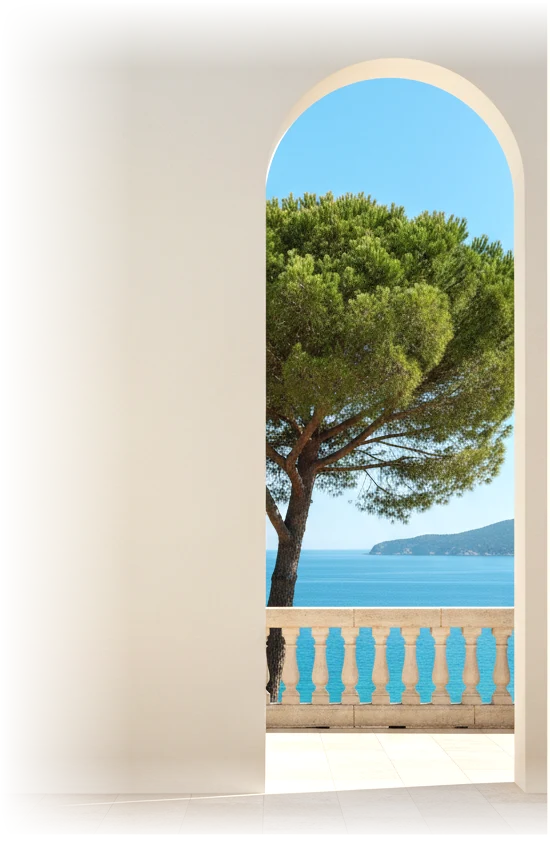
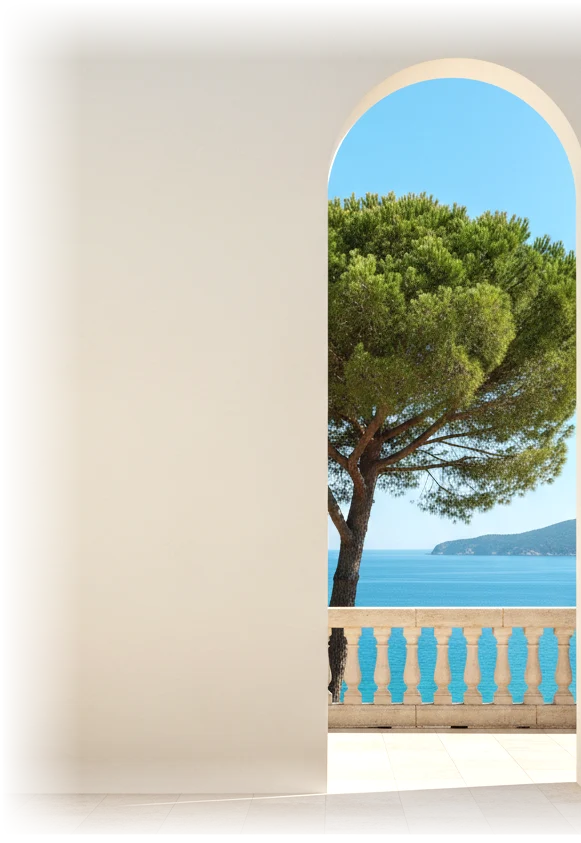
feat(landing): part-2 FULL REBUILD to Christian's strict acceptance criteria — (1) arch = premium architectural doorway: 620×900 spanning KPI band→below cards, wide opening w/ pine/sea/balustrade/sunlit floor, crisp (14% edge melt only), page flows through it; (2) cinematic spacing (sec 104/88, jtl 

diff --git a/marketing/v2/index.html b/marketing/v2/index.html
@@ -158,41 +158,41 @@
   .center .sub{margin-left:auto;margin-right:auto}
 
   .facts{display:flex;justify-content:center;flex-wrap:wrap;background:var(--chalk);max-width:1380px;margin:10px auto 0;padding:0 24px;position:relative;z-index:2}
-  .fact{display:flex;align-items:center;gap:15px;padding:26px 26px;text-align:left;border-right:1px solid var(--line);flex:1;min-width:0;position:relative;z-index:1}
-  .fact:last-child{border-right:none}
-  .fic{width:48px;height:48px;border-radius:50%;border:1px solid rgba(30,38,32,.16);display:grid;place-items:center;flex:none}
+  .fact{display:flex;align-items:center;gap:16px;padding:30px 30px;text-align:left;flex:1;min-width:0;position:relative;z-index:1}
+  .fact:not(:last-child)::after{content:"";position:absolute;right:0;top:50%;transform:translateY(-50%);height:46px;width:1px;background:rgba(30,38,32,.09)}
+  .fic{width:50px;height:50px;border-radius:50%;border:1px solid rgba(30,38,32,.13);display:grid;place-items:center;flex:none}
   .fic svg{width:22px;height:22px;fill:none;stroke:var(--ink);stroke-width:1.5;stroke-linecap:round;stroke-linejoin:round}
-  .fact .fv{font-family:var(--serif);font-size:1.7rem;line-height:1.1;color:var(--ink)}
+  .fact .fv{font-family:var(--serif);font-size:1.72rem;line-height:1.1;color:var(--ink)}
   .fact .fl{font-size:.78rem;color:var(--stone);margin-top:3px}
   /* journey timeline */
-  .jtl-sec{position:relative;padding:72px 0 56px}
-  .jtl-sec .scene-h h2{font-size:clamp(2.1rem,3.6vw,3.05rem)}
-  .jtl-sec .scene-h .sub{font-size:1.05rem;margin-top:16px}
+  .jtl-sec{position:relative;padding:104px 0 88px}
+  .jtl-sec .scene-h h2{font-size:clamp(2.4rem,4vw,3.4rem);line-height:1.12}
+  .jtl-sec .scene-h .sub{font-size:1.08rem;margin-top:18px}
   .jtl-sec .scene-h{text-align:center;position:relative;z-index:1}
   .jtl-sec .scene-h .sub{margin-left:auto;margin-right:auto}
-  .p2-frag{position:absolute;top:-40px;right:0;width:480px;height:736px;object-fit:cover;object-position:center;z-index:0;pointer-events:none}
-  .jtl{position:relative;margin-top:64px;display:grid;grid-template-columns:repeat(7,minmax(0,1fr));gap:14px;z-index:1;padding-right:80px}
-  .jtl-line{position:absolute;left:calc(50% - 50vw);top:0;width:100vw;height:70px;z-index:0;pointer-events:none}
+  .p2-frag{position:absolute;top:-150px;right:0;width:620px;height:900px;object-fit:cover;object-position:center;z-index:0;pointer-events:none}
+  .jtl{position:relative;margin-top:84px;display:grid;grid-template-columns:repeat(7,minmax(0,1fr));gap:16px;z-index:1;padding-right:84px}
+  .jtl-line{position:absolute;left:calc(50% - 50vw);top:0;width:100vw;height:74px;z-index:0;pointer-events:none}
   .jtl-line path{fill:none;stroke:rgba(38,48,42,.55);stroke-width:1.4}
   .jtl-line circle{fill:var(--olive)}
   .jt-step{text-align:center;position:relative;z-index:1}
-  .jt-ic{width:70px;height:70px;border-radius:50%;background:var(--card);border:1px solid rgba(30,38,32,.2);display:grid;place-items:center;margin:0 auto;box-shadow:0 10px 24px -14px rgba(38,48,42,.35)}
-  .jt-ic svg{width:27px;height:27px;fill:none;stroke:var(--ink);stroke-width:1.5;stroke-linecap:round;stroke-linejoin:round}
+  .jt-ic{width:76px;height:76px;border-radius:50%;background:var(--card);border:1px solid rgba(30,38,32,.18);display:grid;place-items:center;margin:0 auto;box-shadow:0 12px 28px -16px rgba(38,48,42,.35)}
+  .jt-ic svg{width:29px;height:29px;fill:none;stroke:var(--ink);stroke-width:1.5;stroke-linecap:round;stroke-linejoin:round}
   .jt-n{display:block;font-family:var(--serif);font-weight:400;font-size:1.15rem;color:var(--ink);margin-top:16px}
-  .jt-l{display:block;font-family:var(--mono);font-size:.62rem;letter-spacing:.16em;color:var(--ink);text-transform:uppercase;margin-top:6px}
+  .jt-l{display:block;font-family:var(--mono);font-size:.63rem;letter-spacing:.18em;color:var(--ink);text-transform:uppercase;margin-top:7px}
   @media(min-width:1280px){.jt-l{white-space:nowrap;overflow:visible}}
   .jt-c{font-size:.74rem;line-height:1.55;color:var(--stone);margin:8px auto 0;max-width:24ch}
-  .jt-art{margin-top:16px;display:flex;justify-content:center}
-  .jt-card{background:#fff;border:1px solid rgba(30,38,32,.08);border-radius:12px;box-shadow:0 12px 30px -16px rgba(38,48,42,.32);padding:11px 13px;font-size:.68rem;line-height:1.5;color:#3c463c;text-align:left;display:flex;align-items:center;gap:9px;max-width:190px}
-  .jt-card b{display:block;font-size:.72rem;color:var(--ink);font-weight:600;white-space:nowrap}
+  .jt-art{margin-top:22px;display:flex;justify-content:center}
+  .jt-card{background:#fff;border:1px solid rgba(30,38,32,.08);border-radius:13px;box-shadow:0 14px 34px -18px rgba(38,48,42,.34);padding:13px 15px;font-size:.72rem;line-height:1.55;color:#3c463c;text-align:left;display:flex;align-items:center;gap:10px;max-width:210px}
+  .jt-card b{display:block;font-size:.76rem;color:var(--ink);font-weight:600;white-space:nowrap}
   .jt-card i{font-style:normal;color:#8a917f;white-space:nowrap}
   .jt-wab{width:26px;height:26px;flex:none}
   .jt-chips{display:flex;flex-direction:column;gap:7px;align-items:center}
-  .jt-chip{background:var(--limestone);border-radius:9px;padding:8px 13px;font-size:.68rem;color:#3c463c;white-space:nowrap}
+  .jt-chip{background:var(--limestone);border-radius:10px;padding:10px 15px;font-size:.72rem;color:#3c463c;white-space:nowrap}
   .jt-chip b{font-weight:600;color:var(--ink)}
-  .jt-prop{display:block;padding:0;overflow:hidden;width:100%;max-width:180px}
+  .jt-prop{display:block;padding:0;overflow:hidden;width:100%;max-width:200px}
   .jt-prop .jp-im{position:relative}
-  .jt-prop img{display:block;width:100%;height:106px;object-fit:cover}
+  .jt-prop img{display:block;width:100%;height:122px;object-fit:cover}
   .jt-prop .jp-h{position:absolute;top:5px;right:5px;width:20px;height:20px;border-radius:50%;background:rgba(255,255,255,.92);display:grid;place-items:center}
   .jt-prop .jp-h svg{width:11px;height:11px;fill:none;stroke:#C86B4A;stroke-width:1.7}
   .jt-prop .jp-t{padding:7px 9px}
@@ -200,8 +200,8 @@
   .jt-prop .jp-t i{display:flex;align-items:center;gap:5px}
   .jp-dot{width:6px;height:6px;border-radius:50%;background:#4A7C59;display:inline-block;flex:none}
   .jt-cal svg{width:17px;height:17px;fill:none;stroke:var(--olive);stroke-width:1.6;flex:none}
-  .jt-photo{position:relative;border-radius:12px;overflow:hidden;box-shadow:0 12px 30px -16px rgba(38,48,42,.32);width:100%;max-width:176px}
-  .jt-photo img{display:block;width:100%;height:108px;object-fit:cover}
+  .jt-photo{position:relative;border-radius:13px;overflow:hidden;box-shadow:0 14px 34px -18px rgba(38,48,42,.34);width:100%;max-width:196px}
+  .jt-photo img{display:block;width:100%;height:120px;object-fit:cover}
   .jt-photo span{position:absolute;bottom:5px;right:6px;background:rgba(255,255,255,.92);border-radius:6px;font-family:var(--mono);font-size:.56rem;padding:2px 6px;color:var(--ink)}
   .jt-spark{align-items:flex-end;gap:10px}
   .jt-spark svg.sline{width:56px;height:26px;fill:none;stroke:var(--olive);stroke-width:1.6;stroke-linecap:round;flex:none;margin-bottom:3px}
@@ -210,19 +210,20 @@
 
   /* language demo */
   .langdemo{display:grid;grid-template-columns:.88fr 1.12fr;gap:52px;align-items:center;position:relative}
-  .p2-olive{position:absolute;left:calc(50% - 50vw - 16px);bottom:-170px;width:380px;height:auto;mix-blend-mode:multiply;opacity:.95;pointer-events:none;z-index:0}
-  .ld-h{font-size:clamp(2.2rem,3.8vw,3.1rem);line-height:1.14;margin-top:14px}
+  .p2-olive{position:absolute;left:calc(50% - 50vw - 20px);bottom:-190px;width:440px;height:auto;mix-blend-mode:multiply;opacity:.92;pointer-events:none;z-index:0}
+  .ld-h{font-size:clamp(2.5rem,4.2vw,3.5rem);line-height:1.15;margin-top:16px}
   .langbtns{display:flex;gap:12px;flex-wrap:wrap;margin-top:24px}
-  .lb{font-family:var(--mono);font-size:.7rem;letter-spacing:.1em;border:1px solid var(--line);border-radius:999px;padding:12px 21px;cursor:pointer;background:var(--card);color:#3c463c;transition:all .2s}
+  .lb{font-family:var(--mono);font-size:.72rem;letter-spacing:.1em;border:1px solid rgba(30,38,32,.14);border-radius:999px;padding:14px 24px;cursor:pointer;background:#fff;color:#3c463c;transition:all .2s}
   .lb.sel{background:var(--olive);color:#F0EDE4;border-color:var(--olive)}
-  .ldc{background:#fff;border:1px solid rgba(30,38,32,.07);border-radius:20px;box-shadow:0 30px 70px -34px rgba(38,48,42,.32);padding:34px 38px;position:relative;z-index:1}
+  .ldc{background:#fff;border:1px solid rgba(30,38,32,.06);border-radius:22px;box-shadow:0 36px 84px -38px rgba(38,48,42,.3);padding:42px 46px;position:relative;z-index:1}
   .ldc-k{font-family:var(--mono);font-size:.64rem;letter-spacing:.16em;color:var(--stone);text-transform:uppercase;display:flex;justify-content:space-between;margin-bottom:16px}
-  .ldc p#draftText{margin:0;font-size:1.08rem;line-height:1.8;color:#333d33;min-height:104px;transition:opacity .3s}
+  .ldc p#draftText{margin:0;font-size:1.14rem;line-height:1.85;color:#333d33;min-height:112px;transition:opacity .3s}
   .ldc hr{border:none;border-top:1px solid rgba(30,38,32,.1);margin:22px 0 16px}
   .ldc-k2{font-family:var(--mono);font-size:.62rem;letter-spacing:.14em;color:var(--stone);text-transform:uppercase;margin-bottom:10px}
-  .ldc-mir{display:flex;align-items:center;justify-content:space-between;gap:14px;background:var(--limestone);border-radius:14px;padding:17px 20px;font-size:.92rem;color:#3c463c}
+  .ldc-mir{display:flex;align-items:center;justify-content:space-between;gap:16px;background:var(--limestone);border-radius:16px;padding:20px 24px;font-size:.96rem;color:#3c463c}
   .mir-t{line-height:1.65}
-  .ldc-av{width:40px;height:40px;border-radius:50%;background:var(--olive);color:#F2EFE4;display:grid;place-items:center;font-weight:600;font-size:.8rem;flex:none;letter-spacing:.02em}
+  .ldc-av{width:48px;height:48px;border-radius:50%;overflow:hidden;flex:none;border:2px solid #fff;box-shadow:0 4px 12px -4px rgba(38,48,42,.3)}
+  .ldc-av img{display:block;width:100%;height:100%;object-fit:cover}
   .draftcard{background:var(--card);border-radius:14px;box-shadow:var(--shadow);padding:20px 22px}
   .draftcard .dk{font-family:var(--mono);font-size:.6rem;letter-spacing:.12em;color:var(--stone);text-transform:uppercase;display:flex;justify-content:space-between;margin-bottom:9px}
   .draftcard p{margin:0;font-size:.92rem;line-height:1.65;color:#333d33;min-height:100px;transition:opacity .3s}
@@ -778,14 +779,14 @@
 
 <!-- system map: journey timeline -->
 <section class="jtl-sec">
-  <img class="p2-frag" src="assets/v3/stone-arch.webp" alt="" width="612" height="843" aria-hidden="true" />
+  <img class="p2-frag" src="assets/v3/stone-arch.webp" alt="" width="581" height="843" aria-hidden="true" />
   <div class="wrap">
     <div class="scene-h reveal">
       <h2 data-i18n="map_h">One system behind the whole <span class="it">journey</span>.</h2>
       <p class="sub" data-i18n="map_sub">Every stage of the client journey lives inside one connected system.</p>
     </div>
     <div class="jtl" id="sysmap">
-      <svg class="jtl-line" viewBox="0 0 1440 70" preserveAspectRatio="none" aria-hidden="true"><path d="M0 44 C 100 28, 200 38, 340 35 L 1080 35 C 1220 35, 1330 30, 1416 33"/><circle cx="1416" cy="33" r="4.5"/></svg>
+      <svg class="jtl-line" viewBox="0 0 1440 74" preserveAspectRatio="none" aria-hidden="true"><path d="M0 60 C 90 34, 190 38, 330 38 L 1110 38 C 1250 38, 1340 27, 1420 31"/><circle cx="1420" cy="31" r="4.5"/></svg>
       <div class="jt-step">
         <span class="jt-ic"><svg aria-hidden="true"><use href="#mv-bubble"/></svg></span>
         <b class="jt-n">01</b><span class="jt-l" data-i18n="jt1">ENQUIRIES</span>
@@ -826,14 +827,14 @@
         <span class="jt-ic"><svg aria-hidden="true"><use href="#ic-chart"/></svg></span>
         <b class="jt-n">07</b><span class="jt-l" data-i18n="jt7">ANALYTICS</span>
         <p class="jt-c" data-i18n="jt7c">Measure performance, improve outcomes.</p>
-        <div class="jt-art"><div class="jt-card jt-spark"><div><b data-i18n="jt7a">Median draft</b><span class="jv">52&#8201;s</span></div><svg class="sline" viewBox="0 0 64 22" aria-hidden="true"><path d="M2 16 C 10 14, 16 18, 24 12 S 40 14, 48 8 S 58 6, 62 4"/></svg></div></div>
+        <div class="jt-art"><div class="jt-card jt-spark"><div><b data-i18n="jt7a">Response rate</b><span class="jv">52%</span></div><svg class="sline" viewBox="0 0 64 22" aria-hidden="true"><path d="M2 16 C 10 14, 16 18, 24 12 S 40 14, 48 8 S 58 6, 62 4"/></svg></div></div>
       </div>
     </div>
   </div>
 </section>
 
 <!-- language demo -->
-<section style="padding-top:0">
+<section style="padding-top:26px">
   <div class="wrap">
     <div class="langdemo">
       <img class="p2-olive" src="assets/v3/wc-olive.webp" alt="" width="640" height="640" loading="lazy" aria-hidden="true" />
@@ -853,7 +854,7 @@
         <p id="draftText">Guten Abend Frau Weber, die Villa in Moraira ist noch verf&uuml;gbar &mdash; 3 Schlafzimmer, Pool, 400 m zum Meer, 645.000 &euro;. Gerne zeige ich sie Ihnen. W&auml;re Samstag 11:00 m&ouml;glich?</p>
         <hr />
         <div class="ldc-k2" data-i18n="ld_mirror">Mirrored for your team</div>
-        <div class="ldc-mir"><span class="mir-t"><span data-i18n="ld_mir2a">Hi Anke, the German version is ready.</span><br /><span data-i18n="ld_mir2b">I have a proposed time for Saturday at 11:00.</span></span><span class="ldc-av" aria-hidden="true">A</span></div>
+        <div class="ldc-mir"><span class="mir-t"><span data-i18n="ld_mir2a">Hi Anke, the German version is ready.</span><br /><span data-i18n="ld_mir2b">I have a proposed time for Saturday at 11:00.</span></span><span class="ldc-av" aria-hidden="true"><img src="assets/v3/avatar-anke.webp" alt="" width="200" height="200" loading="lazy" /></span></div>
       </div>
     </div>
   </div>
@@ -1421,7 +1422,7 @@
     jt4: 'MENSAJES', jt4c: 'Redacta respuestas personales, al instante.', jt4a: 'Borrador · Alemán',
     jt5: 'VISITAS Y SEGUIMIENTOS', jt5c: 'Agenda, recuerda y hace seguimiento — con aprobación previa o en autopiloto.', jt5a: 'Sáb 11:00 · Visita',
     jt6c: 'Crea contenido que vende, en todos los idiomas.',
-    jt7: 'ANALÍTICA', jt7c: 'Mide el rendimiento, mejora los resultados.', jt7a: 'Mediana de borrador',
+    jt7: 'ANALÍTICA', jt7c: 'Mide el rendimiento, mejora los resultados.', jt7a: 'Tasa de respuesta',
     ld_mir2a: 'Hola Anke, la versión en alemán está lista.', ld_mir2b: 'Propongo el sábado a las 11:00.',
     nav_p: 'Producto', nav_j: 'Recorrido', nav_s: 'Studio', nav_pr: 'Precios',
     dh_lvl: 'Nivel de automatización:', dh_af: 'aprobación previa', dh_ap: 'autopiloto',
